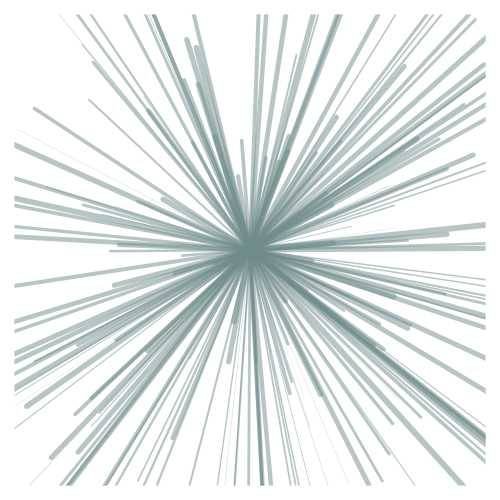
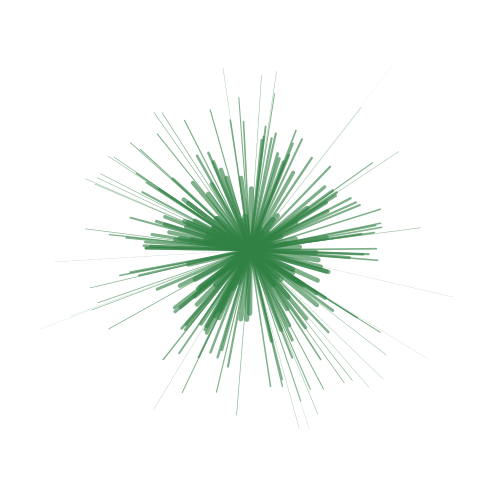
updated gif and readme

diff --git a/README.md b/README.md
@@ -2,7 +2,6 @@
 
 `Fan-art.R`: script builds randomly generated plots by layering segments from a single orgin
 
-![](Plotted_images/Fans.png)
 ![](Plotted_images/fans_monochrome.png)
-![](Plotted_images/fans_square.png)
-![](Plotted_images/Segments_bg_dark_2.png)
+
+See blog post: [marlo.works/posts/fan-art/](https://joemarlo.github.io/posts/fan-art/)
